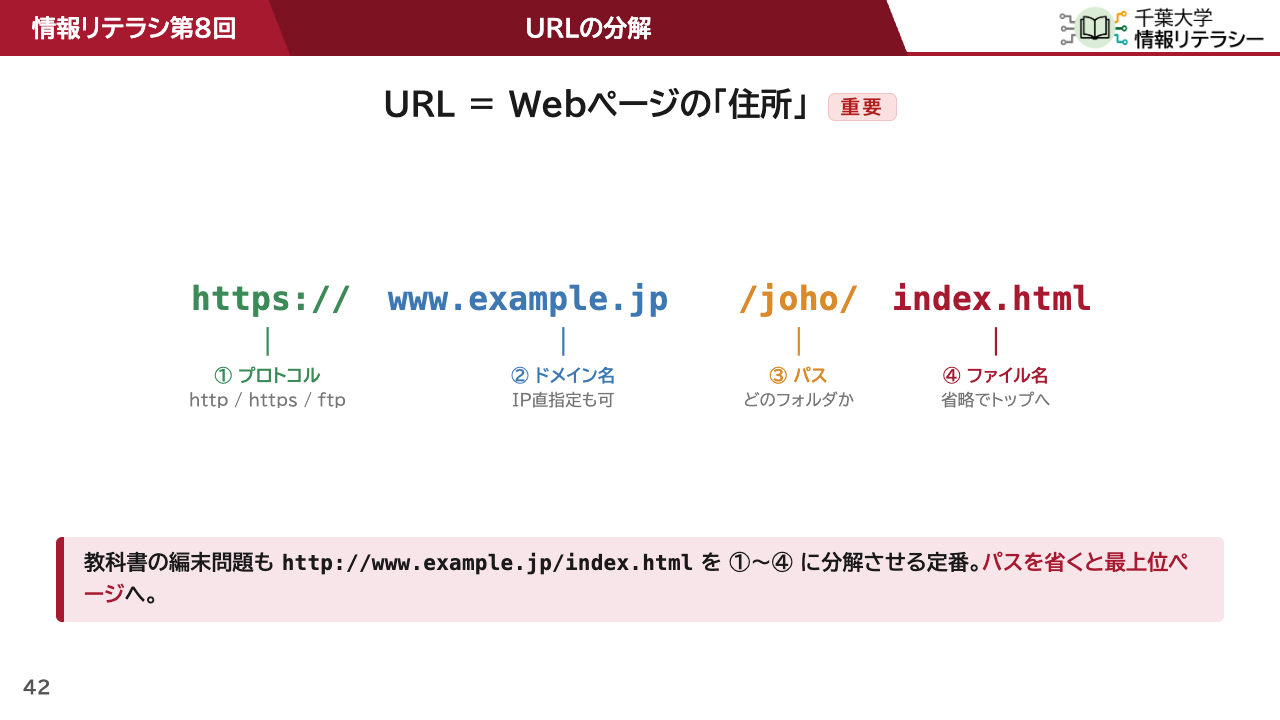
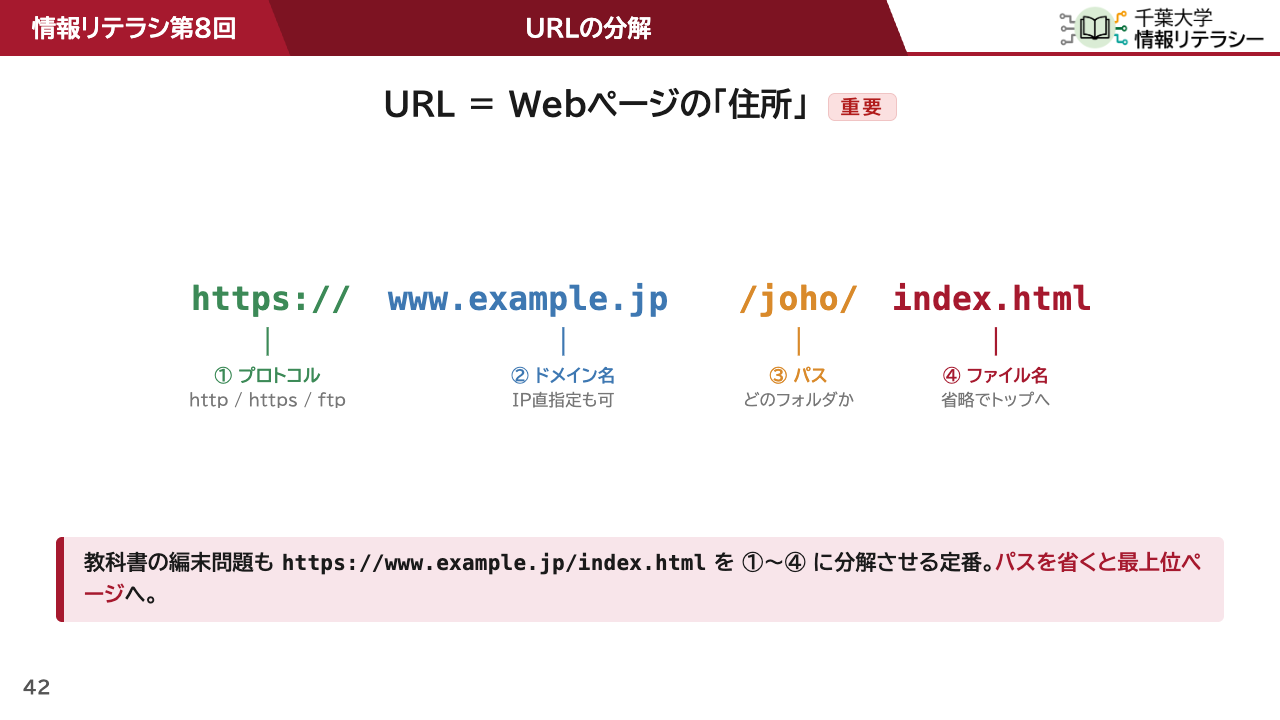
情報リテラシ8: 通読レビュー反映(第1陣・テキスト系)
- p3 episode短縮で右端の文字切れ(「ダウ」)を解消し1行に収める
- p21 IPv6を正確な指数表記に（1兆×1兆×1兆級→≈3.4×10³⁸）
- p41 出典の長いフルURLを削除（枠内の窮屈を解消）
- p42 本文のプロトコルを図と統一（http→https）
- p61 列名を p60 と統一（書名→タイトル）
- p77 「したたった」を読点で区切り読みやすく
- 注: figスライドは width 指定が効かずテキスト短縮で対処（grid列がmax-contentで広がる挙動のため）

Changed region(s): [[0.25, 0.7639, 0.9375, 0.7944]]

diff --git a/slides/20260602_InfoLit_8_network/20260602_InfoLit_8_network.md b/slides/20260602_InfoLit_8_network/20260602_InfoLit_8_network.md
@@ -194,7 +194,7 @@ style: |
 
 <div class="band">各動画のページ上部に同じ <strong>旅バー</strong> を小さく置き、<span class="hl">いま旅のどこの話か</span>を赤で点灯します。</div>
 
-<div class="episode" style="margin-top:6px"><span class="h">なぜ学ぶか</span> 2025年11月18日、Cloudflare で<strong>設定ファイルが想定の倍以上に肥大化</strong>し処理停止、X・ChatGPT 等が世界規模でダウン。攻撃ではなく地味なバグ。仕組みを知れば「なぜ落ちたか」を自分で読み解ける。<span class="src">（出典: Cloudflare 公式ブログ 2025-11-18）</span></div>
+<div class="episode" style="margin-top:6px"><span class="h">なぜ学ぶか</span> 2025年11月18日、Cloudflare の<strong>設定ミス</strong>で X・ChatGPT 等が世界規模でダウン。攻撃ではなく地味なバグだった。</div>
 
 <div class="takeaway">ゴールは1つ ── 「URL を入れてからページが出るまで」を自分で説明できること</div>
 
@@ -934,7 +934,7 @@ style: |
 
 <div class="episode"><span class="h">なぜ学ぶか｜「閉域網だから安全」の崩壊</span> 2022年、大阪の総合医療センターがランサムウェアで電子カルテ停止、外来全面再開まで約2か月。侵入口は外部委託先のVPN機器。<span class="hl">「LAN内＝プライベートIPだから安全」は通用しない。</span><span class="src">出典: ITmedia（2023-03-28）</span></div>
 
-<div class="caption">グローバルIPは<span class="red">ICANN</span>が管理。IPv4＝32ビット＝約43億個 → 枯渇 → <span class="red">IPv6＝128ビット＝2¹²⁸（1兆×1兆×1兆級）</span>で枯渇しない。</div>
+<div class="caption">グローバルIPは<span class="red">ICANN</span>が管理。IPv4＝32ビット＝約43億個 → 枯渇 → <span class="red">IPv6＝128ビット＝2¹²⁸（≈3.4×10³⁸）</span>で枯渇しない。</div>
 
 <div class="takeaway">多数の機器を、ルータの1つのグローバルIPで使い回す仕組み＝NAT。</div>
 
@@ -1779,7 +1779,7 @@ style: |
 </svg>
 
 <div class="episode"><span class="h">なぜ学ぶか｜偽サイトを見破る</span><br>日本のフィッシング報告は2024年に過去最多 <span class="red">171万件超</span>、約75%が実在サービスの“なりすまし”。鍵マーク（HTTPS）とURLの構造を読めることが、最初の防具になる。
-<div class="src">出典: フィッシング対策協議会／日経（2025）<br>https://scan.netsecurity.ne.jp/article/2025/06/12/53031.html</div></div>
+<div class="src">出典: フィッシング対策協議会／日経（2025）</div></div>
 
 </div>
 </div>
@@ -1808,7 +1808,7 @@ style: |
 </svg>
 </div>
 
-<div class="band">教科書の編末問題も <span class="mono">http://www.example.jp/index.html</span> を ①〜④ に分解させる定番。<span class="hl">パスを省くと最上位ページ</span>へ。</div>
+<div class="band">教科書の編末問題も <span class="mono">https://www.example.jp/index.html</span> を ①〜④ に分解させる定番。<span class="hl">パスを省くと最上位ページ</span>へ。</div>
 
 ---
 
@@ -2576,7 +2576,7 @@ style: |
 <div class="cbox green"><div class="h">🔧 表計算ではなく「コード」で（Moodle → Colab）</div><div class="b">
 
 - ① <span class="mono">import pandas as pd</span> で表を2つ作る（<span class="hl">書籍</span>・<span class="hl">著者</span>）
-- ② <span class="mono">pandasql</span> / <span class="mono">sqlite3</span> で SQL を実行：<br><span class="mono">SELECT 書名,著者名 FROM 書籍 JOIN 著者 USING(著者ID)</span>
+- ② <span class="mono">pandasql</span> / <span class="mono">sqlite3</span> で SQL を実行：<br><span class="mono">SELECT タイトル,著者名 FROM 書籍 JOIN 著者 USING(著者ID)</span>
 - ③ <span class="red">WHERE（選択）・列指定（射影）・JOIN（結合）</span>で結果がどう変わるか観察
 - ④ 同じ操作を <span class="mono">df.merge()</span> でも書き、SQL と pandas を見比べる
 
@@ -3291,7 +3291,7 @@ style: |
 </div>
 </div>
 
-<div class="episode"><div class="h">なぜ「しくみ」を学ぶのか</div>2025年11月、Cloudflareで設定ファイルが想定の倍以上に肥大化したたった1つの不具合で、X・ChatGPTなど多数のサービスが世界規模でエラーに。AIに「なぜ繋がらないの？」と聞いても、<span class="hl">中身を知らなければ答えの正否を判断できない</span>。だから用語でなく「しくみ」を学ぶ。</div>
+<div class="episode"><div class="h">なぜ「しくみ」を学ぶのか</div>2025年11月、Cloudflareで設定ファイルが想定の倍以上に肥大化した、たった1つの不具合で、X・ChatGPTなど多数のサービスが世界規模でエラーに。AIに「なぜ繋がらないの？」と聞いても、<span class="hl">中身を知らなければ答えの正否を判断できない</span>。だから用語でなく「しくみ」を学ぶ。</div>
 
 <div class="src">出典：Cloudflare 公式「Cloudflare outage on November 18, 2025」</div>
 
